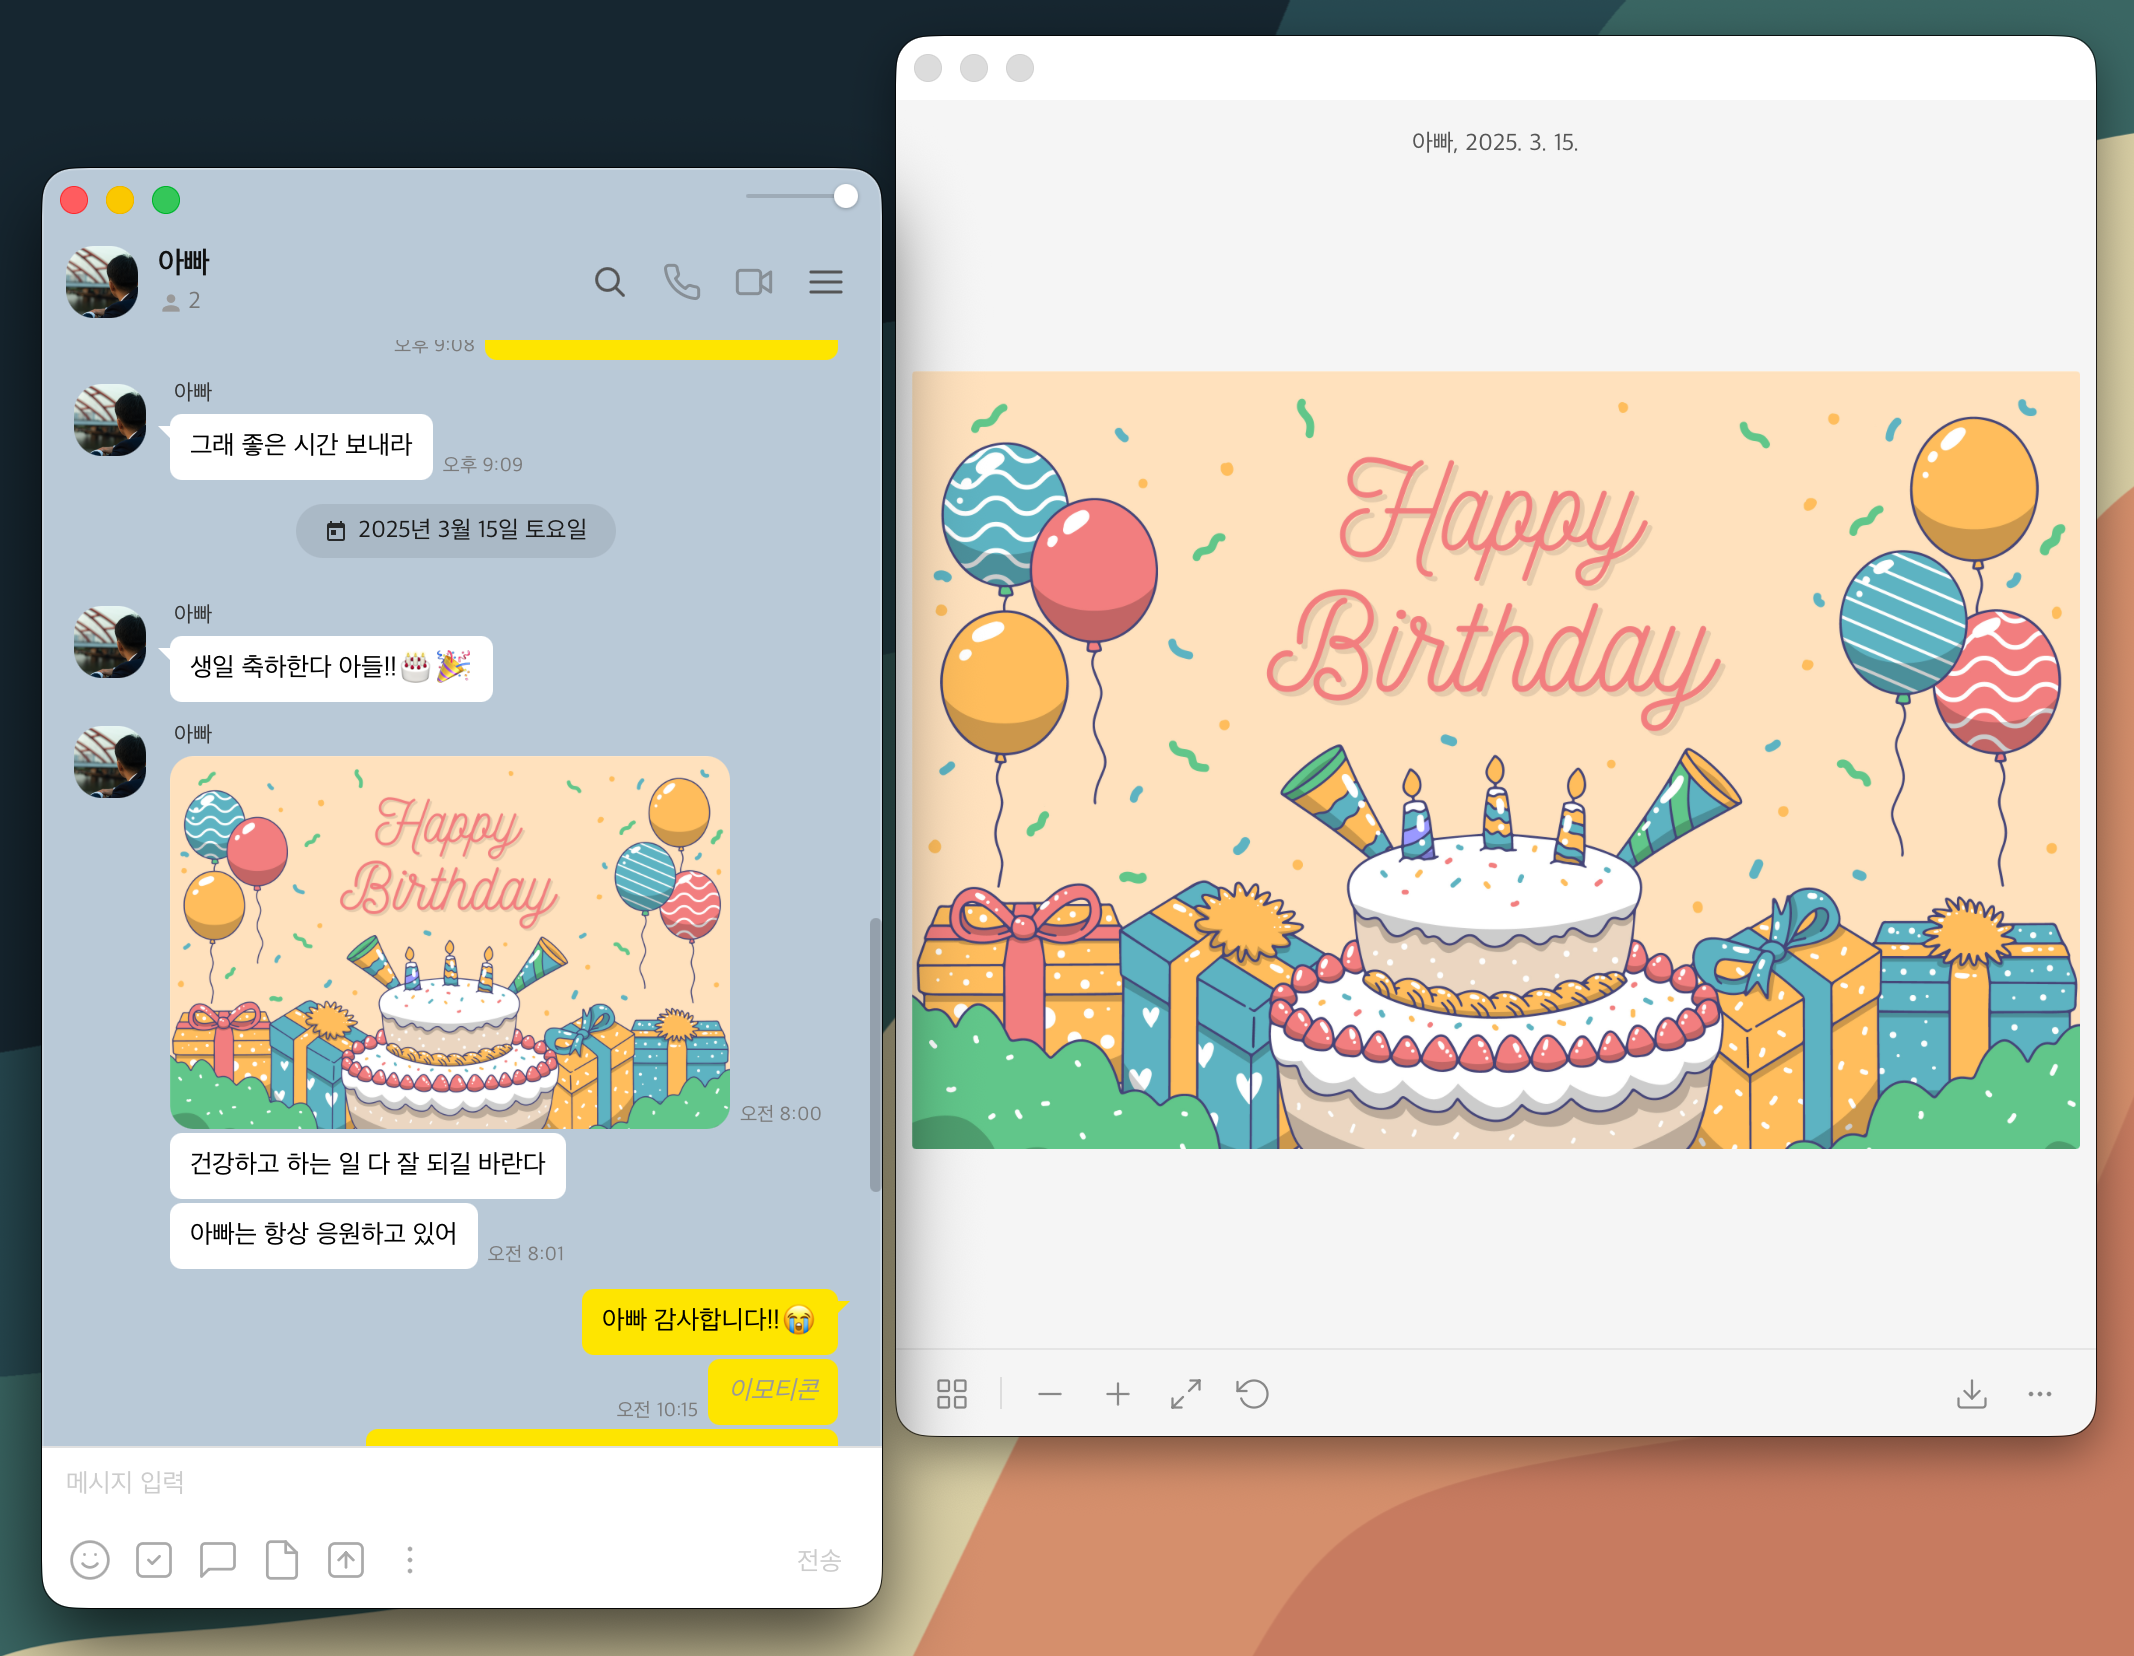
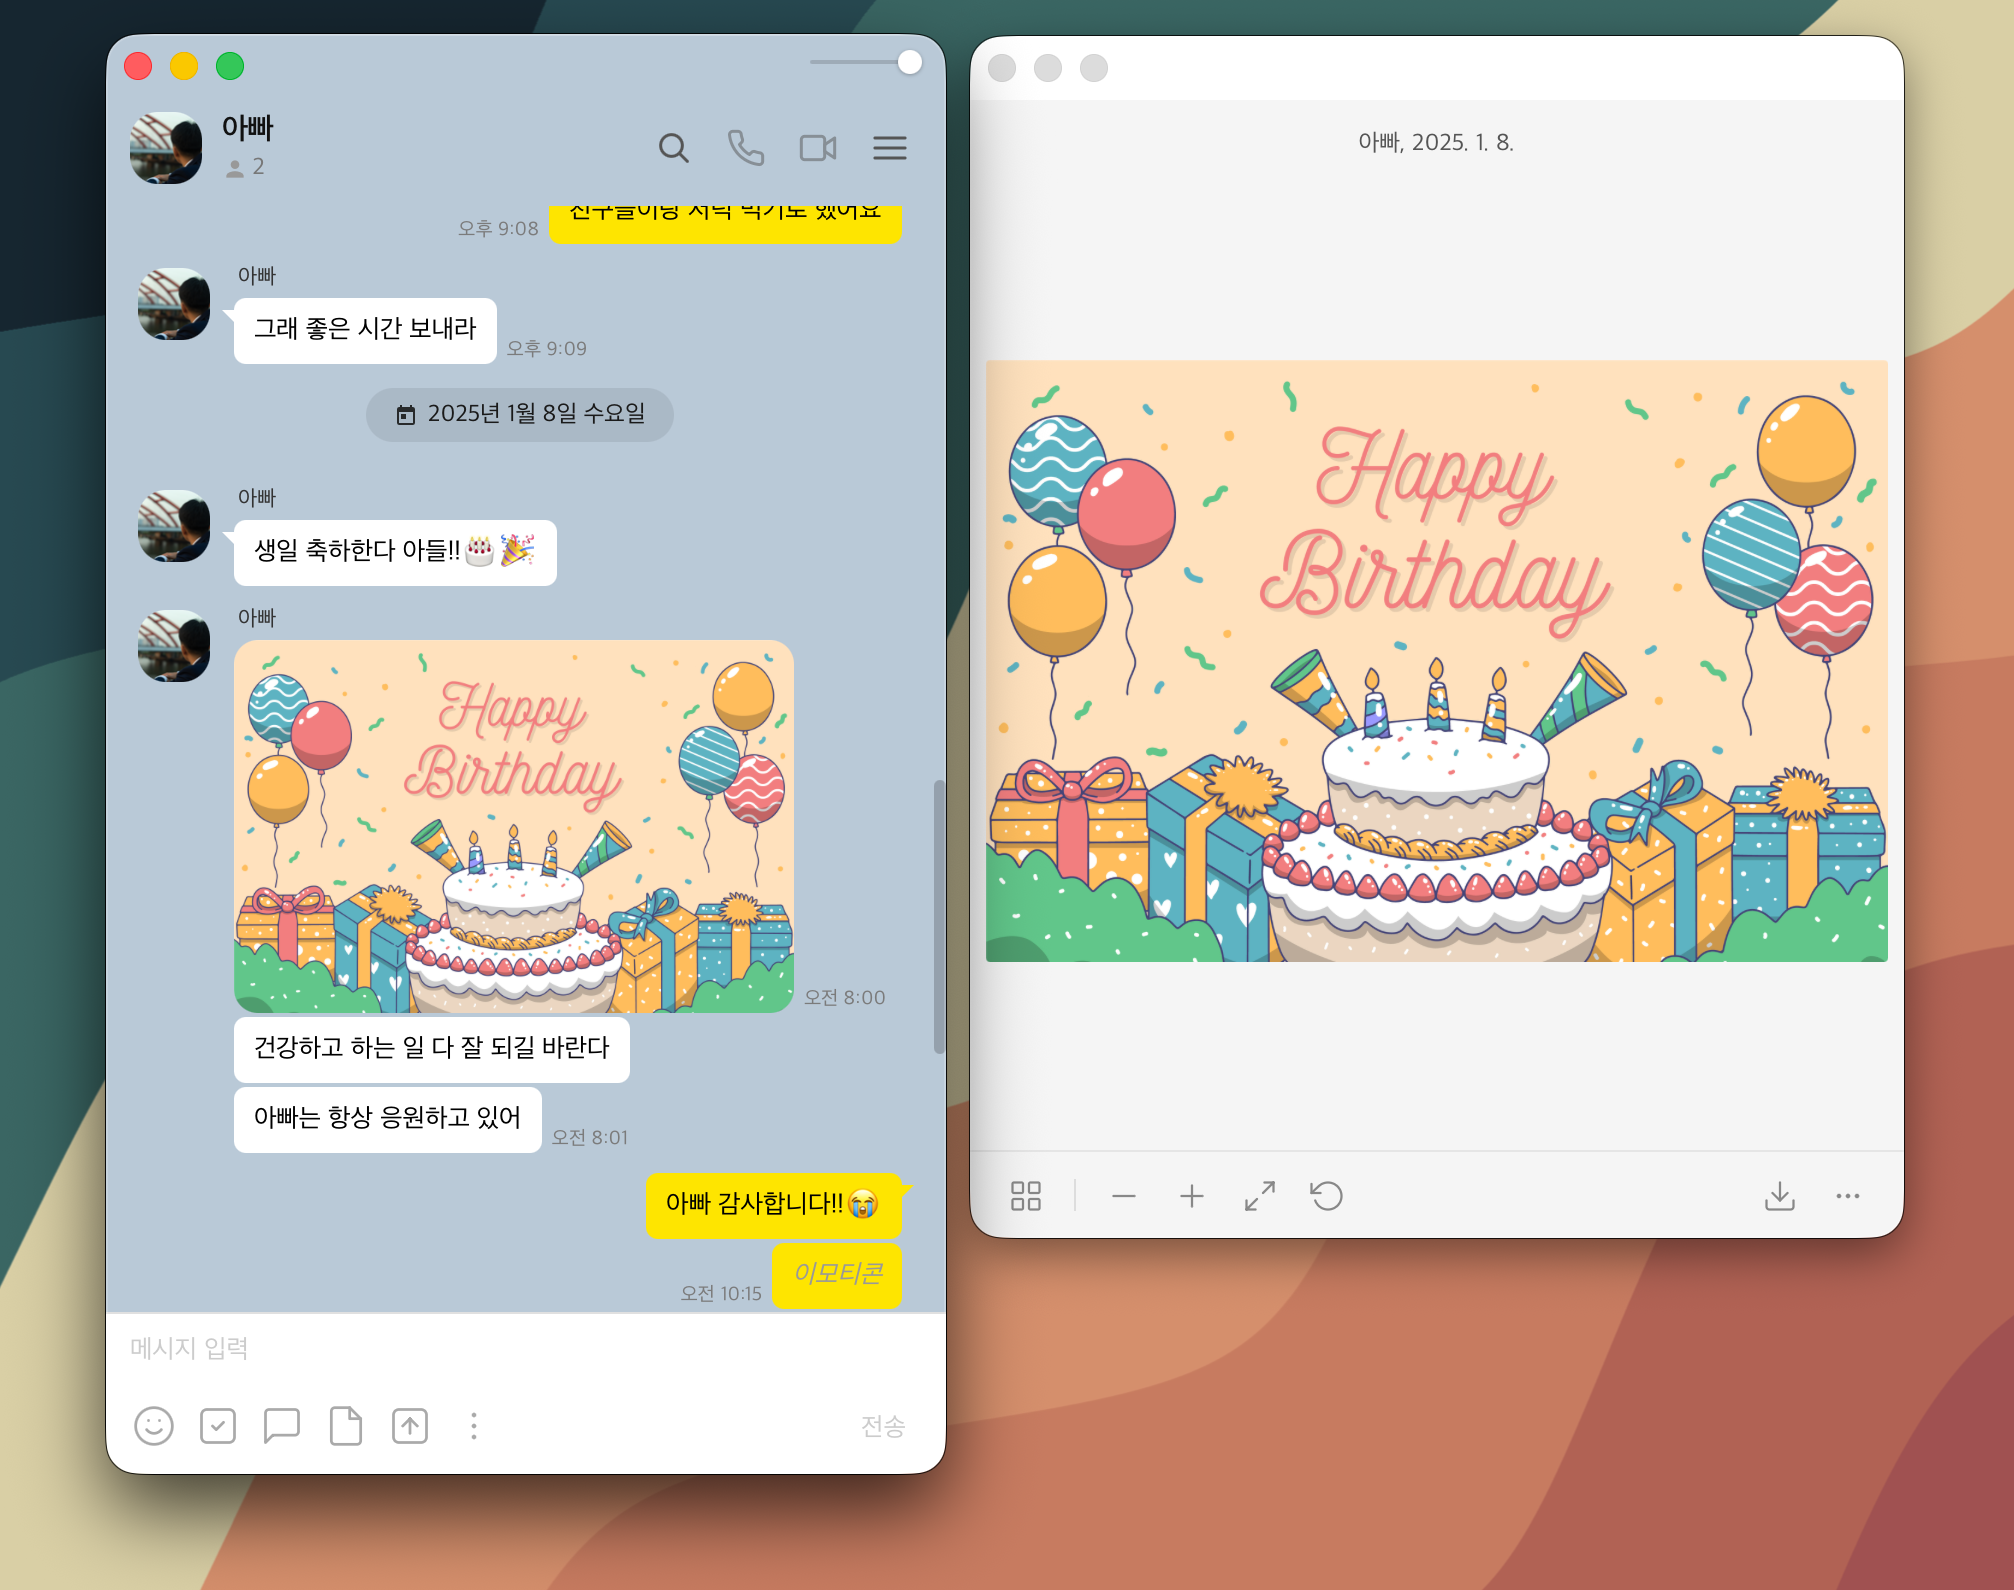
docs: 생일 샘플 추가 및 스크린샷 변경

diff --git a/sample/ATTRIBUTION.md b/sample/ATTRIBUTION.md
@@ -1,0 +1,1 @@
+Birthday cake image designed by [Freepik](https://www.freepik.com)
